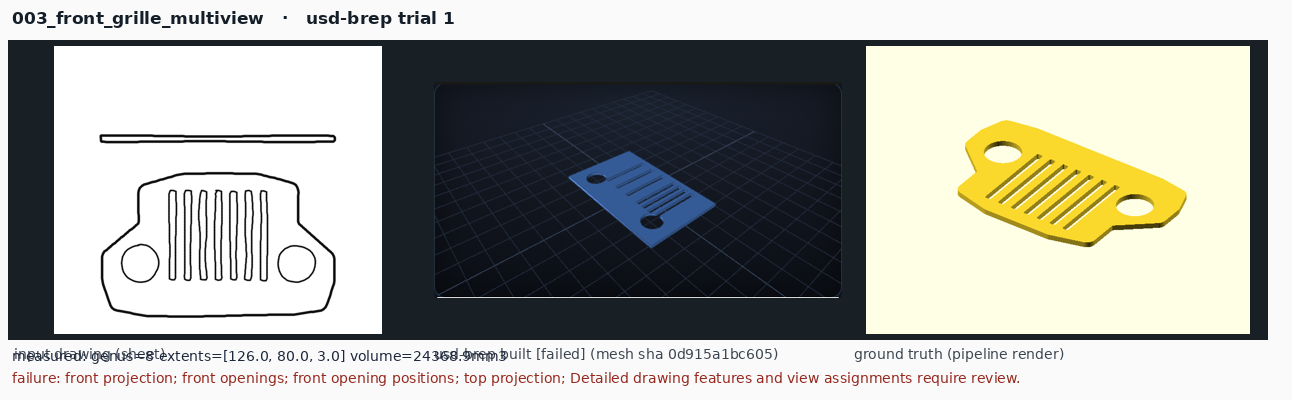
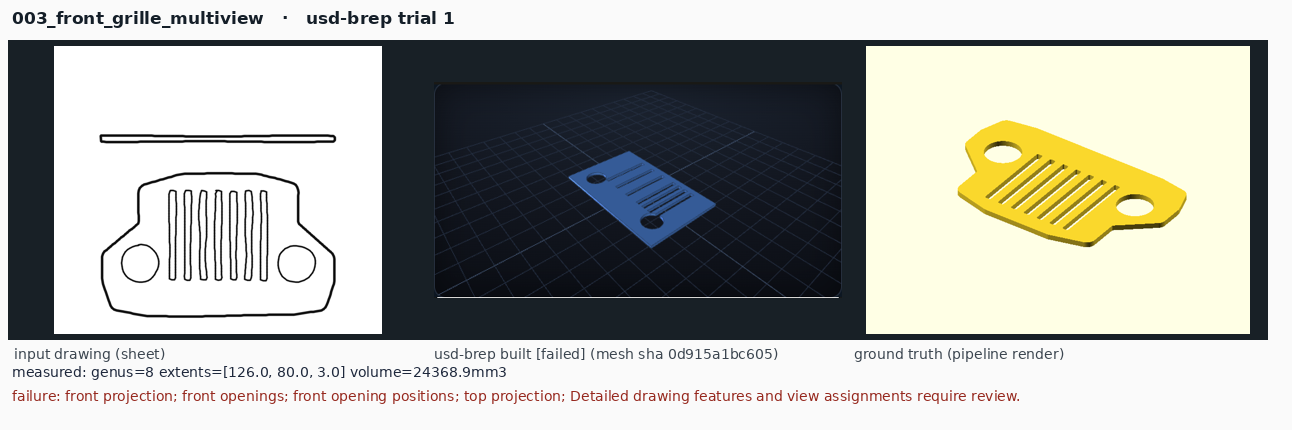
(issue #17) bench-final: Codex round-2 corrections
P1 provenance portability: paths were absolute (/tmp/doodle-brep-32/...)
  so an audit of another checkout followed out of it; now checkout-relative
  ('runs/...', 'references/...', 'repo:...') with resolve_src() + hard
  SystemExit on absolute paths; self-test reproduces Codex's local-row-edit
  tamper (must FAIL)
P2 panel coverage: input + GT source hashes now verified, not just recorded;
  self-test corrupts local input.png bytes (must FAIL)
P2 GT labeling split: 'complete GT match' renamed to ref dims/topo/vol pass
  (solid_transition x2, asserted to still FAIL fidelity/overall_pass — not
  full matches); RESULTS.md column 'GT overall pass' replaced by separate
  'automatic overall_pass' (includes no_ground_truth rows) and
  'ref dims/topo/vol pass' columns; audit asserts RESULTS.md never regains
  the conflated label
montage footer overlap fixed (dedicated footer band)
Audit 27/27; adversarial self-test 8/8

diff --git a/docs/brep/bench-final/audit.py b/docs/brep/bench-final/audit.py
@@ -71,9 +71,12 @@ acc_os = sum(1 for r in osd if (r.get("product") or {}).get("accepted"))
 bld_os = sum(1 for r in osd if (r.get("checks") or {}).get("build_success"))
 full_gt_os = [r for r in osd if (r.get("checks") or {}).get("extents_pass")
               and (r.get("checks") or {}).get("genus_pass") and (r.get("checks") or {}).get("volume_pass")]
-check("openscad: 44/46 done, 22 accepted, 42 build_ok, complete-GT-match = 2x solid_transition",
+check("openscad: 44/46 done, 22 accepted, 42 build_ok, ref dims/topo/vol pass = 2x solid_transition "
+      "(which still FAIL projection fidelity — not full matches)",
       (len(osd), acc_os, bld_os) == (44, 22, 42) and len(full_gt_os) == 2
-      and {r["drawing"] for r in full_gt_os} == {"solid_transition"},
+      and {r["drawing"] for r in full_gt_os} == {"solid_transition"}
+      and all(r["checks"].get("fidelity_pass") is False and r["checks"].get("overall_pass") is False
+              for r in full_gt_os),
       f"{len(osd)},{acc_os},{bld_os},{sorted({r['drawing'] for r in full_gt_os})}")
 plan_acc_usd = [r for r in usdd if (r.get("product") or {}).get("status") not in (None, "failed")]
 strict_usd = sum(1 for r in usdd if (r.get("product") or {}).get("status") == "passed")
@@ -117,6 +120,13 @@ check("every error row publishes a message",
 text = (HERE / "README.md").read_text()
 check("README headline table matches", "22/44 (50%)" in text and "1/31 (3%)" in text
       and "31/31 (100%)" in text and "solid_transition" in text and "0/31 (0%)" in text)
+res = (HERE / "RESULTS.md").read_text()
+check("RESULTS.md separates the two GT measurements (no 'GT overall pass' label)",
+      "GT overall pass" not in res and "automatic overall_pass" in res
+      and "ref dims/topo/vol pass" in res)
+prov_raw = (HERE / "images" / "provenance.json").read_text()
+check("provenance paths are checkout-relative (no absolute machine paths)",
+      '"/tmp/' not in prov_raw and '"/home/' not in prov_raw)
 check("README carries the Codex-review errata section", "Rev errata" in text and "status != 'failed'" in text)
 # frozen plan precedes trials (honesty rule from #34, reused) — compare parsed datetimes
 first = min(datetime.fromisoformat(r["submitted_at"]) for r in rows if r.get("submitted_at"))
@@ -126,10 +136,23 @@ check("plan frozen_at precedes every trial",
 # montages: PROVEN BINDING image -> provenance.json -> row -> mesh -> bytes.
 # Swapping two montage files, editing a row, or re-exporting a mesh breaks
 # one of the sha256 equalities below.
+def resolve_src(p):
+    """Provenance paths are checkout-relative: 'runs/...' under bench-final,
+    'repo:...' under the repo root. NEVER absolute — an audit must read the
+    checkout it audits, not whichever tree happened to produce the images."""
+    q = Path(p)
+    if q.is_absolute():
+        raise SystemExit(f"provenance path is absolute ({p}); re-run "
+                         "make_fail_montages.py from this checkout")
+    if p.startswith("repo:"):
+        return HERE.parents[2] / p[len("repo:"):]
+    return HERE / q
+
+
 prov = json.loads((HERE / "images" / "provenance.json").read_text())
 for name, meta in sorted(prov.items()):
     img = HERE / "images" / name
-    row_path = Path(meta["row"])
+    row_path = resolve_src(meta["row"])
     r = json.load(open(row_path))
     got = (r.get("product") or {}).get("status") or r.get("job_status")
     ok_img = img.exists() and sha256(img) == meta["image_sha256"]
@@ -141,9 +164,16 @@ for name, meta in sorted(prov.items()):
         ok_mesh = (archived.exists()
                    and sha256(archived) == meta["panels"]["brep_mesh"]["sha256"]
                    and meta["panels"]["brep_mesh"]["sha256"] == (r.get("build") or {}).get("sha256"))
-    check(f"montage {name}: image/row/mesh hash chain + verdict={meta['verdict']}",
-          ok_img and ok_row and ok_verdict and ok_mesh,
-          f"img={ok_img} row={ok_row} verdict={ok_verdict}/{got} mesh={ok_mesh}")
+    ok_panels = True
+    for panel in meta["panels"].values():
+        src = panel.get("path")
+        if not src or panel.get("sha256") is None:
+            continue
+        sp = resolve_src(src)
+        ok_panels = ok_panels and sp.exists() and sha256(sp) == panel["sha256"]
+    check(f"montage {name}: image/row/mesh/panel hash chain + verdict={meta['verdict']}",
+          ok_img and ok_row and ok_verdict and ok_mesh and ok_panels,
+          f"img={ok_img} row={ok_row} verdict={ok_verdict}/{got} mesh={ok_mesh} panels={ok_panels}")
 check("montage set is the 6 published cases", len(prov) == 6, str(len(prov)))
 # non-vacuity: two different montages must NOT bind to each other's row hash
 _a = prov["wheel_t2.png"]["row_sha256"]

diff --git a/docs/brep/bench-final/make_fail_montages.py b/docs/brep/bench-final/make_fail_montages.py
@@ -116,13 +116,14 @@ def row(drawing, trial=1, gt=None):
             raise SystemExit(f'{drawing}: archived STL hash != row build.sha256 — refusing')
         mesh = archived
 
-    panels = {'input': {'path': str(cell / 'input.png'), 'sha256': sha256(cell / 'input.png')}}
+    panels = {'input': {'path': str((cell / 'input.png').relative_to(BENCH)),
+                        'sha256': sha256(cell / 'input.png')}}
     left = thumb(cell / 'input.png')
     if mesh:
         render_stl(mesh, OUT / f'{drawing}_usd-brep_t{trial}_brep.png')
         mid = thumb(OUT / f'{drawing}_usd-brep_t{trial}_brep.png')
         cap_mid = f'usd-brep built [{status}] (mesh sha {r["build"]["sha256"][:12]})'
-        panels['brep_mesh'] = {'path': str(mesh), 'sha256': r['build']['sha256']}
+        panels['brep_mesh'] = {'path': str(mesh.relative_to(BENCH)), 'sha256': r['build']['sha256']}
     else:
         msg = (r.get('error') or {}).get('message', 'no mesh produced')
         mid = refusal_panel(msg)
@@ -134,16 +135,16 @@ def row(drawing, trial=1, gt=None):
             render_stl(gp, OUT / f'{drawing}_t{trial}_gt.png')
             g = thumb(OUT / f'{drawing}_t{trial}_gt.png')
             cap_right = 'ground truth (reference STL)'
-            panels['gt'] = {'path': str(gt), 'sha256': sha256(gt)}
+            panels['gt'] = {'path': str(Path(gt).relative_to(BENCH)), 'sha256': sha256(gt)}
         else:
             g = thumb(gp)
             cap_right = 'ground truth (pipeline render)'
-            panels['gt'] = {'path': str(gp), 'sha256': sha256(gp)}
+            panels['gt'] = {'path': str(gp.relative_to(BENCH)), 'sha256': sha256(gp)}
     else:
         der = ROOT / 'benchmarks/cases' / drawing / 'derived' / 'view-isometric.png'
         g = thumb(der)
         cap_right = 'ground truth (pipeline render)'
-        panels['gt'] = {'path': str(der), 'sha256': sha256(der)}
+        panels['gt'] = {'path': 'repo:' + str(der.relative_to(ROOT)), 'sha256': sha256(der)}
 
     b = r.get('build') or {}
     facts = (f"measured: genus={b.get('genus')} extents={b.get('extents_mm')} "
@@ -151,7 +152,7 @@ def row(drawing, trial=1, gt=None):
     fails = '; '.join((r.get('product') or {}).get('failures') or []) \
         or ((r.get('error') or {}).get('message') or '')
 
-    W, H, LBL = 420 * 3 + 32, 300 + 34 + 66, 40
+    W, H, LBL = 420 * 3 + 32, 300 + 34 + 96, 40
     sheet = Image.new('RGB', (W, H), (250, 250, 250))
     d = ImageDraw.Draw(sheet)
     d.text((12, 8), f'{drawing}   ·   usd-brep trial {trial}', font=FONT, fill=(20, 30, 40))
@@ -159,14 +160,15 @@ def row(drawing, trial=1, gt=None):
         x = 8 + i * 420
         sheet.paste(im, (x, LBL))
         d.text((x + 6, LBL + 300 + 6), cap, font=FONT_S, fill=(60, 70, 80))
-    d.text((12, H - 52), facts[:185], font=FONT_S, fill=(30, 40, 60))
-    d.text((12, H - 30), ('failure: ' + fails)[:185], font=FONT_S, fill=(150, 40, 30))
+    d.text((12, H - 66), facts[:185], font=FONT_S, fill=(30, 40, 60))
+    d.text((12, H - 42), ('failure: ' + fails)[:185], font=FONT_S, fill=(150, 40, 30))
     name = f'{drawing}_t{trial}.png'
     sheet.save(OUT / name)
 
     prov_file = OUT / 'provenance.json'
     prov = json.loads(prov_file.read_text()) if prov_file.exists() else {}
-    prov[name] = {'row': str(cell / 'row.json'), 'row_sha256': sha256(cell / 'row.json'),
+    prov[name] = {'row': str((cell / 'row.json').relative_to(BENCH)),
+                  'row_sha256': sha256(cell / 'row.json'),
                   'image_sha256': sha256(OUT / name), 'verdict': status,
                   'measured': facts, 'failures': fails, 'panels': panels}
     prov_file.write_text(json.dumps(prov, indent=2))

diff --git a/docs/brep/bench-final/aggregate.py b/docs/brep/bench-final/aggregate.py
@@ -56,12 +56,21 @@ def main():
         scores = [r["product"]["score"] for r in done
                   if (r.get("product") or {}).get("score") is not None]
         checks = {k: sum(1 for r in done if (r.get("checks") or {}).get(k) is True) for k in CHECK_KEYS}
+        # SEPARATE measurements, deliberately never conflated (Codex round 2):
+        #  - overall_pass: automatic gates green; ALSO true for no-reference rows
+        #  - ref-dims: extents+genus+volume all True (requires a real reference;
+        #    rows with null checks never count; may still fail projections)
+        ref_dims = [r["drawing"] for r in done
+                    if all((r.get("checks") or {}).get(k) is True
+                           for k in ("extents_pass", "genus_pass", "volume_pass"))]
         walls = [r["wall_seconds"] for r in rs if r.get("wall_seconds")]
         summary["backends"][backend] = {
             "trials": len(rs), "done": len(done),
             "accepted": len(accepted), "accept_rate": rate(len(accepted), len(done)),
             "build_ok_rate": rate(checks["build_success"], len(done)),
-            "overall_pass_rate": rate(checks["overall_pass"], len(done)),
+            "automatic_overall_pass_rate": rate(checks["overall_pass"], len(done)),
+            "ref_dims_pass_rate": rate(len(ref_dims), len(done)),
+            "ref_dims_drawings": sorted(set(ref_dims)),
             "check_pass": {k: rate(checks[k], len(done)) for k in CHECK_KEYS},
             "mean_score": round(sum(scores) / len(scores), 1) if scores else None,
             "median_wall_s": sorted(walls)[len(walls) // 2] if walls else None,
@@ -94,12 +103,18 @@ def main():
         {"summary": summary, "per_drawing": per_drawing}, indent=2) + "\n")
 
     lines = ["# bench-final results — merged BRep line (plan 3f5d76d)", "",
-             "| backend | trials | done | product-accepted | accept rate | build OK | GT overall pass | mean score | median wall (s) |",
-             "|---|---|---|---|---|---|---|---|---|"]
+             "| backend | trials | done | product-accepted | accept rate | build OK | automatic overall_pass* | ref dims/topo/vol pass** | mean score | median wall (s) |",
+             "|---|---|---|---|---|---|---|---|---|---|"]
     for backend, s in summary["backends"].items():
         lines.append(f"| {backend} | {s['trials']} | {s['done']} | {s['accepted']} | {s['accept_rate']} | "
-                     f"{s['build_ok_rate']} | {s['overall_pass_rate']} | {s['mean_score']} | {s['median_wall_s']} |")
-    lines += ["", "## Ground-truth check pass rates (done trials)", ""]
+                     f"{s['build_ok_rate']} | {s['automatic_overall_pass_rate']} | "
+                     f"{s['ref_dims_pass_rate']} ({','.join(s['ref_dims_drawings']) or '—'}) | "
+                     f"{s['mean_score']} | {s['median_wall_s']} |")
+    lines += ["",
+              "\* automatic overall_pass includes `no_ground_truth` rows — it is NOT a reference match.",
+              "\** extents+genus+volume all pass against a real reference; such rows may still",
+              "     fail projection/fidelity gates and are not full model acceptances.",
+              "", "## Per-check pass rates (done trials)", ""]
     for backend, s in summary["backends"].items():
         lines.append(f"- **{backend}**: " + ", ".join(f"{k} {v}" for k, v in s["check_pass"].items()))
     lines += ["", "## Top gate failures", ""]

diff --git a/docs/brep/bench-final/audit_selftest.py b/docs/brep/bench-final/audit_selftest.py
@@ -24,7 +24,7 @@ def scenario_swap_images(copy):
     """Codex's own test: wheel montage replaced by the vase montage."""
     img = copy / "images"
     shutil.copyfile(img / "002_greek_vase_silhouette_t1.png", img / "wheel_t2.png")
-    return "montage wheel_t2.png: image/row/mesh hash chain"
+    return "montage wheel_t2.png: image/row/mesh/panel hash chain"
 
 
 def scenario_tamper_row_hash(copy):
@@ -63,7 +63,7 @@ def scenario_provenance_rebind(copy):
     other = prov["003_front_grille_multiview_t1.png"]
     prov["101_bltouch_bracket_t1.png"]["row_sha256"] = other["row_sha256"]
     pf.write_text(json.dumps(prov))
-    return "montage 101_bltouch_bracket_t1.png: image/row/mesh hash chain"
+    return "montage 101_bltouch_bracket_t1.png: image/row/mesh/panel hash chain"
 
 
 def scenario_empty_reference(copy):
@@ -80,10 +80,29 @@ def scenario_empty_reference(copy):
         r = json.loads(rf.read_text())
         r["checks"].update({"extents_pass": None, "genus_pass": None, "volume_pass": None})
         rf.write_text(json.dumps(r))
-    return "complete-GT-match = 2x solid_transition"
+    return "ref dims/topo/vol pass = 2x solid_transition"
+
+
+def scenario_local_row_edit(copy):
+    """Codex round-2 repro: edit the LOCAL wheel row. With absolute provenance
+    paths the audit would follow out of this checkout and still pass."""
+    f = copy / "runs" / "wheel" / "usd-brep" / "trial-02" / "row.json"
+    r = json.loads(f.read_text())
+    r["wall_seconds"] = 1.0
+    f.write_text(json.dumps(r))
+    return "montage wheel_t2.png: image/row/mesh/panel hash chain"
+
+
+def scenario_local_input_corrupt(copy):
+    """Round-2 finding: panel sources recorded but not verified. Replace the
+    wheel input drawing with garbage; the panel hash must catch it."""
+    (copy / "runs" / "wheel" / "usd-brep" / "trial-02" / "input.png").write_bytes(b"not a png")
+    return "montage wheel_t2.png: image/row/mesh/panel hash chain"
 
 
 SCENARIOS = [
+    ("local row edit (Codex round-2 repro)", scenario_local_row_edit),
+    ("local input-bytes corruption (panel hash)", scenario_local_input_corrupt),
     ("image swap (Codex reproduction)", scenario_swap_images),
     ("row hash tamper", scenario_tamper_row_hash),
     ("acceptance flip", scenario_flip_acceptance),

diff --git a/docs/brep/bench-final/README.md b/docs/brep/bench-final/README.md
@@ -15,7 +15,13 @@ ground-truth STLs + 3 certified #34 references + 3 honest `no_ground_truth`
 `ask_missing_dimensions=false`, so the openscad numbers measure the product
 **without** the #68 answer loop — see "thickness lottery" below.
 
-> **Rev errata (2026-10-19, external review by Codex @ 907eed7).** Three
+> **Rev errata (2026-10-19, external reviews by Codex @ 907eed7 and @ 820800f).**
+> Round 2 (@ 820800f) fixed: absolute paths in `provenance.json` (the audit
+> could read another checkout — now checkout-relative and enforced), panel
+> input/GT source hashes recorded but unverified (now verified), the
+> "complete GT match" label (renamed ref dims/topo/vol pass, kept separate
+> from `automatic overall_pass`), and footer overlap in montages.
+> Round 1 (@ 907eed7) fixed: Three
 > reporting defects in the first version were confirmed against the rows and
 > are corrected here: (1) bevelled_block was called a "GT pass" but has NO
 > ground-truth reference — its `overall_pass` covers build+automatic-gates
@@ -40,13 +46,18 @@ Acceptance = the frozen plan's definition (`TRIAL-PLAN.json`
 `status != 'failed'` — for BRep that means **automatic checks passed, still
 unverified**, never full acceptance (the path never auto-accepts fidelity).
 
-| backend | done | plan-accepted | build OK | complete GT match¹ | median wall |
+| backend | done | plan-accepted | build OK | ref dims/topo/vol pass¹ | median wall |
 |---|---|---|---|---|---|
 | openscad | 44/46 | 22/44 (50%) | 42/44 (95%) | 2/44 (5%) — `solid_transition` ×2 | 193 s |
 | usd-brep | 31/46 | 1/31 (3%)² | 31/31 (100%) | 0/31 (0%) | 113 s |
 
-¹ extents AND genus AND volume all pass against a real reference (39 openscad
+¹ extents AND genus AND volume all true against a real reference (39 openscad
 rows have references; 3 are `no_ground_truth` and only get automatic gates).
+**This is NOT a full model match**: both `solid_transition` rows still FAIL
+projection/fidelity and `overall_pass` — they are dimension/topology/volume
+passes only. The separate `automatic overall_pass` metric (bevelled_block ×2)
+includes `no_ground_truth` rows and is not a reference match; the two totals
+coincide at 2 by accident and must never be conflated (Codex review round 2).
 ² `006_stepped_knob` trial-1: `status=unverified` = "automatic checks
 passed; still unverified". Under the stricter (unsatisfiable)
 `status=='passed'` the count is 0; both were published to avoid spin.
@@ -59,10 +70,12 @@ Questions asked during trials: openscad 0 (ask off by design), usd-brep 9
 - **OpenSCAD build reliability:** 95% watertight single-component; simple
   prisms/plates score 95–100 repeatedly (004 plate 99.9×2, 010 nameplate
   99.5, 102 knob 96.7).
-- **Complete ground-truth match exists, but is rare:** `solid_transition`
-  (rect→round) passes extents+genus+volume against the certified #34
-  reference on both trials (score 94.4×2). Bevelled_block passes all
-  AUTOMATIC gates both trials but has no reference — shape is NOT verified.
+- **Reference dims/topology/volume pass exists, but is rare:**
+  `solid_transition` (rect→round) passes extents+genus+volume against the
+  certified #34 reference on both trials (score 94.4×2) — while still
+  failing projection/fidelity. Bevelled_block passes all AUTOMATIC gates
+  both trials but has no reference — shape is NOT verified. These two
+  counts are different measurements (both happen to equal 2).
 - **Gate precision (#62/#67 in production):** failures are specific and
   actionable — blind-pocket detection, opening-position mismatches with
   cad_mapping hints, degenerate-axis detection. Zero silent passes observed:

diff --git a/docs/brep/bench-final/RESULTS.md b/docs/brep/bench-final/RESULTS.md
@@ -1,11 +1,15 @@
 # bench-final results — merged BRep line (plan 3f5d76d)
 
-| backend | trials | done | product-accepted | accept rate | build OK | GT overall pass | mean score | median wall (s) |
-|---|---|---|---|---|---|---|---|---|
-| openscad | 46 | 44 | 22 | 50% | 95% | 5% | 91.3 | 192.5 |
-| usd-brep | 46 | 31 | 1 | 3% | 100% | 0% | None | 113.4 |
+| backend | trials | done | product-accepted | accept rate | build OK | automatic overall_pass* | ref dims/topo/vol pass** | mean score | median wall (s) |
+|---|---|---|---|---|---|---|---|---|---|
+| openscad | 46 | 44 | 22 | 50% | 95% | 5% | 5% (solid_transition) | 91.3 | 192.5 |
+| usd-brep | 46 | 31 | 1 | 3% | 100% | 0% | 0% (—) | None | 113.4 |
 
-## Ground-truth check pass rates (done trials)
+\* automatic overall_pass includes `no_ground_truth` rows — it is NOT a reference match.
+\** extents+genus+volume all pass against a real reference; such rows may still
+     fail projection/fidelity gates and are not full model acceptances.
+
+## Per-check pass rates (done trials)
 
 - **openscad**: build_success 95%, extents_pass 11%, genus_pass 55%, volume_pass 5%, fidelity_pass 64%, overall_pass 5%
 - **usd-brep**: build_success 100%, extents_pass 10%, genus_pass 58%, volume_pass 0%, fidelity_pass 19%, overall_pass 0%
